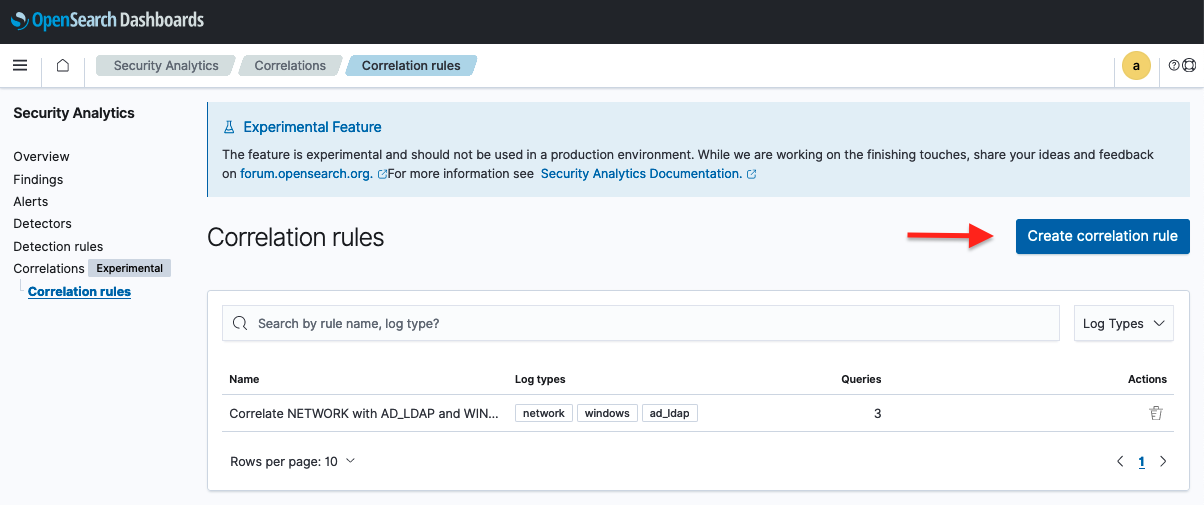
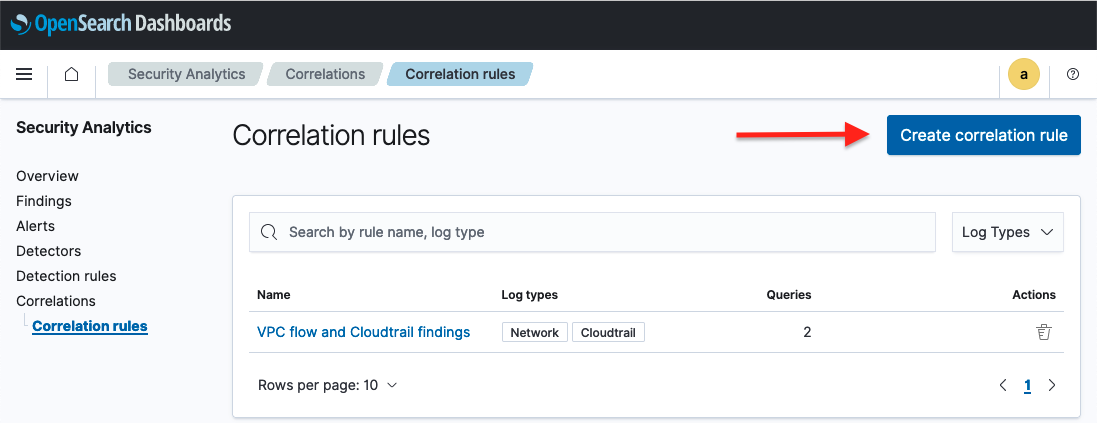
Fix correlation engine documentation by removing all instances of the experimental flag for 2.9 (#4635) (#4637)
* fix#4631 correlation rule updates

* fix#4631 correlation rule updates

* fix#4631 correlation rule updates

* fix#4631 correlation rule updates

* fix#4631 correlation rule updates

---------

(cherry picked from commit 169f71427cc885cda01e2d5007e1f9f7b593984c)

diff --git a/_security-analytics/usage/correlation-graph.md b/_security-analytics/usage/correlation-graph.md
@@ -7,23 +7,23 @@ nav_order: 45
 
 # Working with the correlation graph
 
-The correlation engine is an experimental feature released in OpenSearch 2.7. Therefore, we do not recommend using the feature in a production environment at this time. For updates on the progress of the correlation engine, see [Security Analytics Correlation Engine](https://github.com/opensearch-project/security-analytics/issues/369) on GitHub. To share ideas and provide feedback, join the [Security Analytics forum](https://forum.opensearch.org/c/plugins/security-analytics/73).
-{: .warning }
-
 The correlation graph is a security findings knowledge graph. It provides a visualization of information generated by the correlation engine and allows you to focus on specific correlations and inspect them in greater detail. Information on the graph includes findings by log type, the severity levels for the findings, the correlations drawn between findings, and the relevance of the correlations, among other details. You can also manipulate the graph to gain further insight into specific events of interest. This includes filtering findings by date and time, zooming in on the relationship between specific findings and their correlations, and filtering by log type and severity level. Use this section to learn more about using the graph. 
 
+---
 ## Acccessing the graph
 
 Begin by selecting **Security Analytics** in the OpenSearch Dashboards main menu. Then select **Correlations** from the Security Analytics menu on the left side of the screen. The **Correlations** page is displayed, as shown in the following image.
 
 <img src="{{site.url}}{{site.baseurl}}/images/Security/sec-analytics/corr-graph.png" alt="The correlation graph" width="85%">
 
+---
 ## Interpreting the graph
 
 The graph displays findings as nodes with colored borders expressing their severity level. A three-letter abbreviation inside the node indicates the log type. The lines that connect the findings represent the correlations between them. A heavy line indicates a strong correlation, while a light line shows a weaker connection.
 
 <img src="{{site.url}}{{site.baseurl}}/images/Security/sec-analytics/corr-graph-detail.png" alt="The correlation graph" width="40%">
 
+---
 ## Using the graph
 
 You can control which findings are displayed on the graph by filtering by severity level, log type, and time filter. The time filter controls the findings that appear on the graph by setting a date range in which they were generated.
@@ -36,7 +36,7 @@ You can focus on a particular area of the graph to look at correlations associat
 
 <img src="{{site.url}}{{site.baseurl}}/images/Security/sec-analytics/corr-drill-dn.png" alt="Zooming in on a specific finding on the graph" width="40%">
 
-After narrowing the focus of the graph, informational cards for each of the findings appear on the right-hand side of the screen. The selected finding appears at the top of the cards, and the correlated findings are listed below it in order of their correlation relevance, represented by a correlation score, as shown in the following image.
+After narrowing the focus of the graph, informational cards for each of the findings appear on the right-hand side of the screen. The selected finding appears at the top of the cards, and the correlated findings are listed underneath it in order of their correlation relevance, represented by a correlation score, as shown in the following image.
 
 <img src="{{site.url}}{{site.baseurl}}/images/Security/sec-analytics/corr-cards.png" alt="Zooming in on a specific finding on the graph" width="30%">
 

diff --git a/_security-analytics/security.md b/_security-analytics/security.md
@@ -9,12 +9,12 @@ has_children: false
 
 You can use OpenSearch Security with Security Analytics to assign user permissions and manage the actions that users can and cannot perform. For example, you might want one group of users to be able to create, update, or delete detectors and another group of users to only view detectors. You may want still another group to be able to receive and acknowledge alerts but to be prevented from performing other tasks. The OpenSearch Security framework allows you to control the level of access users have to Security Analytics functionality.
 
-
+---
 ## Security Analytics system indexes
 
 Security Analytics indexes are protected as system indexes and treated differently than other indexes in a cluster. System indexes store configurations and other system settings and, for that reason, cannot be modified using the REST API or the OpenSearch Dashboards interface. Only a user with a TLS [admin certificate]({{site.url}}{{site.baseurl}}/security/configuration/tls/#configuring-admin-certificates) can access system indexes. For more information about working with this type of index, see [System indexes]({{site.url}}{{site.baseurl}}/security/configuration/system-indices/).
 
-
+---
 ## Basic permissions
 
 As an administrator, you can use OpenSearch Dashboards or the Security REST API to assign specific permissions to users based on the specific APIs they need to access. For a list of supported APIs, see [API tools]({{site.url}}{{site.baseurl}}/security-analytics/api-tools/index/).
@@ -23,7 +23,7 @@ OpenSearch Security has three built-in roles that cover most Security Analytics 
 
 If these roles don't meet your needs, mix and match individual Security Analytics [permissions]({{site.url}}{{site.baseurl}}/security/access-control/permissions/#security-analytics-permissions) to suit your use case. Each action corresponds to an operation in the REST API. For example, the `cluster:admin/opensearch/securityanalytics/detector/delete` permission allows you to delete detectors.
 
-
+---
 ## (Advanced) Limit access by backend role
 
 You can use backend roles to configure fine-grained access to individual detectors based on roles. For example, backend roles can be assigned to users working in different departments of an organization so that they can view only those detectors owned by the departments in which they work.
@@ -90,7 +90,7 @@ PUT /_plugins/_security/api/rolesmapping/security_analytics_full_access
 
 However, because they have different backend roles, `alice` and `bob` cannot view each other's detectors or their results.
 
-
+---
 ## A note on using fine-grained access control with the plugin
 
 When a trigger generates an alert, the detector configurations, the alert itself, and any notifications that are sent to a channel may include metadata describing the index being queried. By design, the plugin must extract the data and store it as metadata outside of the index. [Document-level security]({{site.url}}{{site.baseurl}}/security/access-control/document-level-security) (DLS) and [field-level security]({{site.url}}{{site.baseurl}}/security/access-control/field-level-security) (FLS) access controls are designed to protect the data in the index. But once the data is stored outside the index as metadata, users with access to the detector and monitor configurations, alerts, and their notifications will be able to view this metadata and possibly infer the contents and quality of data in the index, which would otherwise be concealed by DLS and FLS access control.

diff --git a/_security-analytics/sec-analytics-config/detectors-config.md b/_security-analytics/sec-analytics-config/detectors-config.md
@@ -9,7 +9,7 @@ nav_order: 15
 
 Security Analytics provides the options and functionality to monitor and respond to a wide range of security threats. Detectors are the essential components that determine what to look for and how to respond to those threats. This section covers their creation and configuration. 
 
-
+---
 ## Step 1. Define a detector
 
 You can define a new detector by naming the detector, selecting a data source and detector type, and specifying a detector schedule. After defining a detector, you can also configure field mappings and set up alerts. Follow the steps in this section to accomplish all three of these setup tasks.
@@ -40,8 +40,8 @@ You can define a new detector by naming the detector, selecting a data source an
 
     To quickly select one or more known rules and dismiss others, first deselect all rules by turning off the **Rule name** toggle, then search for your target rule names and select each individually by turning its toggle on.
     {: .tip }
-
-
+    
+---
 ## Step 2. Create field mappings
 
 The field mapping step matches field names from the detector rule with field names from the log index being used to provide data. Creating field mappings allows the system to accurately pass event data from the log to the detector and then use the data to trigger alerts.
@@ -93,7 +93,7 @@ While mapping fields, consider the following:
 * Once the log source field name is selected and mapped to the detector field name, the icon in the **Status** column to the right changes from the alert icon to a check mark.
 * Make as many matches between field names as possible to complete an accurate mapping for the detector and log source fields.
 
-
+---
 ## Step 3. Create a detector schedule
 
 1. In the **Detector schedule** section, set how often the detector will run. Specify a unit of time and a corresponding number to set the interval. The following image shows that the detector runs every 3 minutes.
@@ -102,7 +102,7 @@ While mapping fields, consider the following:
     
 1. After specifying how often the detector will run, select **Next** in the lower-right corner of the screen. The **Set up alerts** page appears and displays settings for an alert trigger.
 
-
+---
 ## Step 4. Set up alerts
 
 The fourth step in creating a detector involves setting up alerts. Alerts are configured to create triggers that, when matched with a set of detection rule criteria, send notifications of possible security events. You can select rule names, rule severity, and tags in any combination to define a trigger. Once a trigger is defined, the alert setup lets you choose the channel on which to be notified and provides options for customizing a message for the notification.
@@ -139,7 +139,7 @@ To set up an alert for a detector, continue with the following steps:
 
 1. Review the specifications for the detector and select **Create detector** in the lower-right corner of the screen. The detector details for the new detector are displayed. When you navigate to the main **Threat detectors** page, the new detector appears in the list.
 
-
+---
 ## What's next
 
 If you are ready to view findings for the new detector, see the [Working with findings]({{site.url}}{{site.baseurl}}/security-analytics/usage/findings/) section. If you would like to import rules or set up custom rules before working with findings, see the [Working with rules]({{site.url}}{{site.baseurl}}/security-analytics/usage/rules/) section. 

diff --git a/_security-analytics/sec-analytics-config/correlation-config.md b/_security-analytics/sec-analytics-config/correlation-config.md
@@ -7,12 +7,9 @@ nav_order: 16
 
 # Creating correlation rules
 
-The correlation engine is an experimental feature released in OpenSearch 2.7. Therefore, we do not recommend using the feature in a production environment at this time. For updates on the progress of the correlation engine, see [Security Analytics Correlation Engine](https://github.com/opensearch-project/security-analytics/issues/369) on GitHub. To share ideas and provide feedback, join the [Security Analytics forum](https://forum.opensearch.org/c/plugins/security-analytics/73).
-{: .warning }
-
 Correlation rules allow you to define threat scenarios involving multiple systems in an infrastructure by matching the signatures of threat events occurring in different log types. Once a rule contains at least two different log sources and the preferred fields and field values that define an intended threat scenario, the correlation engine can query the indexes specified in the correlation rule and identify any correlations between the findings.
 
-
+---
 ## Configuring rules
 
 Having at least two data sources in the rule configuration is the basis for making connections between different systems in an infrastructure and identifying correlations. Therefore, a minimum of two queries is required for each correlation rule. However, you can include more than two queries to better define a threat scenario and look for correlations between multiple systems. Follow these steps to create a correlation rule:
@@ -39,9 +36,9 @@ Having at least two data sources in the rule configuration is the basis for maki
   
    <img src="{{site.url}}{{site.baseurl}}/images/Security/sec-analytics/corr-rule-config4.png" alt="A second query for the correlation rule" width="50%">
 
-1. Once the rule is complete, select **Create correlation rule** in the lower-right corner of the window. OpenSearch creates a new rule, the screen returns to the **Correlation rules** window, and the new rule appears in the table of correlation rules.
+1. Once the rule is complete, select **Create correlation rule** in the lower-right corner of the window. OpenSearch creates a new rule, the screen returns to the **Correlation rules** window, and the new rule appears in the table of correlation rules. To edit the rule, select the rule name in the **Name** column. The **Edit correlation rule** window opens.
 
-
+---
 ## Setting a time window
 
 The Cluster Settings API allows you to correlate findings within a set time window. For example, if your time window is three minutes, the system attempts to correlate findings defined in the threat scenario only when they occur within three minutes of one another. By default, the time window is five minutes. For more information about the Cluster Settings API, see [Cluster settings]({{site.url}}{{site.baseurl}}/api-reference/cluster-api/cluster-settings/).
@@ -60,7 +57,7 @@ PUT /_cluster/settings
 ```
 {% include copy-curl.html %}
 
-
+---
 ## Next steps
 
 After creating detectors and correlation rules, you can use the correlation graph to observe the correlations between findings from different log sources. For information about working with the correlation graph, see [Working with the correlation graph]({{site.url}}{{site.baseurl}}/security-analytics/usage/correlation-graph/). 

diff --git a/_security-analytics/index.md b/_security-analytics/index.md
@@ -20,7 +20,7 @@ As part of the OpenSearch Project, Security Analytics exists in the open source 
 
 If you would like to leave feedback that could help improve Security Analytics, join the discussion on the [OpenSearch forum](https://forum.opensearch.org/c/plugins/security-analytics/73).
 
-
+---
 ## Components and concepts
 
 Security Analytics includes a number of tools and features elemental to its operation. The major components that compose the plugin are summarized in the following sections.
@@ -47,6 +47,7 @@ Log types provide the data used to evaluate events occurring in a system. OpenSe
 * Microsoft 365 logs
 * Okta events
 * Microsoft Azure logs
+* VPC Flow logs
 
 Log types are specified during the creation of detectors, including steps for mapping log fields to the detector. Security Analytics also automatically selects an appropriate set of rules based on a specific log type and populates them for the detector.
 
@@ -70,16 +71,13 @@ For information about setting up alerts, see [Step 4. Set up alerts]({{site.url}
 
 ### Correlation engine
 
-The correlation engine is an experimental feature released in OpenSearch 2.7. Therefore, we do not recommend using the feature in a production environment at this time. For updates on the progress of the correlation engine, see [Security Analytics Correlation Engine](https://github.com/opensearch-project/security-analytics/issues/369) on GitHub. To share ideas and provide feedback, join the [Security Analytics forum](https://forum.opensearch.org/c/plugins/security-analytics/73).
-{: .warning }
-
 The correlation engine gives Security Analytics the ability to compare findings from different log types and draw correlations between them. This facilitates understanding of the relationships between findings from different systems in an infrastructure and increases confidence that an event is meaningful and requires attention.
 
 The correlation engine uses correlation rules to define threat scenarios involving different log types. It can then perform queries on logs to match relevant findings from those different log sources. To depict relationships between events occurring in different logs, a correlation graph provides a visual representation of findings, their connections, and the proximity of those connections. While the correlation rules define what threat scenarios to look for, the graph provides a visualization that helps you identify the relationships between different findings in a chain of security events.
 
 To learn more about defining threat scenarios for correlation rules, see [Creating correlation rules]({{site.url}}{{site.baseurl}}/security-analytics/sec-analytics-config/correlation-config/). To learn more about using the correlation graph, see [Working with the correlation graph]({{site.url}}{{site.baseurl}}/security-analytics/usage/correlation-graph/).
 
-
+---
 ## First steps
 
 To get started with Security Analytics, you need to define detectors, ingest log data, generate findings, define correlation rules, and configure alerts. See [Setting up Security Analytics]({{site.url}}{{site.baseurl}}/security-analytics/sec-analytics-config/index/) to begin configuring the platform to meet your objectives.

diff --git a/_security-analytics/usage/findings.md b/_security-analytics/usage/findings.md
@@ -13,6 +13,7 @@ The **Findings** window includes features for viewing and working with findings.
 
 You can choose **Refresh** at any time to refresh information on the **Findings** page.
 
+---
 ## The Findings graph
 
 The findings graph can display findings by log type or rule severity. Use the **Group by** dropdown list to specify either log type or rule severity.
@@ -39,6 +40,7 @@ When one of the commonly used windows of time is selected, you can choose **Show
 
 As one more alternative, you can select an option from the **Recently used date ranges** section to go back to a previous setting.
 
+---
 ## The Findings list
 
 The **Findings** list displays all findings according to the time of the finding, the finding ID, the rule name that generated the finding, the detector that captured the finding, and other details, as shown in the following image.
@@ -77,9 +79,6 @@ The **Discover** panel displays the document that generated the finding with a h
 For details about working with **Discover** in OpenSearch Dashboards, see [Exploring data]({{site.url}}{{site.baseurl}}/dashboards/discover/index-discover/).
 
 #### Viewing correlated findings
-
-Correlations between findings are generated by the correlation engine, which is an experimental feature released in OpenSearch 2.7. Therefore, we do not recommend using the feature in a production environment at this time. For updates on the progress of the correlation engine, see [Security Analytics Correlation Engine](https://github.com/opensearch-project/security-analytics/issues/369) on GitHub. To share ideas and provide feedback, join the [Security Analytics forum](https://forum.opensearch.org/c/plugins/security-analytics/73).
-{: .warning }
 
 To see how the finding is correlated with other findings, select the **Correlations** tab. Correlations are relationships between findings that express a particular threat scenario involving multiple log types. Information in the **Correlated findings** table shows the time at which a correlated finding was generated, a finding's ID, the log type used to generate the finding, its threat severity, and the correlation score---a measure of its proximity to the reference finding---as shown in the following image.
 

diff --git a/_security-analytics/usage/overview.md b/_security-analytics/usage/overview.md
@@ -16,6 +16,7 @@ When you select **Security Analytics** from the top menu, the Overview page is d
 
 Each section provides a summary description for each element of Security Analytics, along with controls that let you take action for each item.
 
+---
 ## Overview and getting started
 
 The upper portion of the Overview page contains two control buttons for refreshing information and getting started with Security Analytics. You can select the **Refresh** button to refresh all of the information on the page. 
@@ -29,24 +30,29 @@ You can also select the **Getting started** link to expand the Get started with 
 * In step 3, select **View alerts** to go to the Security alerts page. For details about this page, see [Working with alerts]({{site.url}}{{site.baseurl}}/security-analytics/usage/alerts/).
 * In step 4, select **Manage rules** to go to the Rules page. For more on rules, see [Working with rules]({{site.url}}{{site.baseurl}}/security-analytics/usage/rules/).
 
+---
 ## Findings and alert count
 
 The Findings and alert count section provides a graph showing data on the latest findings. Use the **Group by** dropdown list to select either **All findings** or **Log type**.
 
+---
 ## Recent alerts
 
 The Recent alerts table displays recent alerts by time, trigger name, and alert severity. Select **View alerts** to go to the Alerts page.
 
+---
 ## Recent findings
 
 The Recent findings table displays recent findings by time, rule name, rule severity, and detector. Select **View all findings** to go to the Findings page.
 
+---
 ## Most frequent detection rules
 
 This section provides a graphical representation of detection rules that trigger findings most often and how they compare to others as a percentage of the whole. The rule names represented by the graph are listed to the right.
 
 <img src="{{site.url}}{{site.baseurl}}/images/Security/rule_graph.png" alt="The detection rule graph on the Overview page" width="50%">
 
+---
 ## Detectors
 
 The Detectors section displays a list of available detectors by detector name, status (active/inactive), and log type. Select **View all detectors** to go to the Detectors page. Select **Create detector** to go directly to the Define detector page.

diff --git a/_security-analytics/usage/rules.md b/_security-analytics/usage/rules.md
@@ -11,6 +11,7 @@ The **Detection rules** window lists all security rules used for detection creat
 
 <img src="{{site.url}}{{site.baseurl}}/images/Security/Rules.png" alt="The Rules page" width="90%">
 
+---
 ## Viewing and filtering rules
 
 When you open the **Detection rules** page, all rules are listed in the table. Use the search bar to search for specific rules by entering a full or partial name and pressing **Return/Enter** on your keyboard. The list is filtered and displays matching results.
@@ -32,10 +33,10 @@ In Visual view, rule details are arranged in fields, and the links are active. S
 * Rule details are formatted as a YAML file according to the Sigma rule specification.
 * To copy the rule, select the copy icon in the upper-right corner of the rule. To quickly create a new, customized rule, you can paste the rule into the YAML editor and make any modifications before saving it. See [Customizing rules](#customizing-rules) for more information.
 
+---
 ## Creating rules
 
 There are multiple ways to create rules on the **Detection rules** page. These methods include manually creating a custom rule, importing a rule, and duplicating an existing rule to customize it. The following sections discuss these methods in detail.  
-
 
 ### Custom rules
 
@@ -162,7 +163,6 @@ status: experimental
 {% include copy.html %}
 
 To assist in rule creation using the **YAML Editor**, you can refer to Sigma's [Rule Creation Guide](https://github.com/SigmaHQ/sigma/wiki/Rule-Creation-Guide) and use the descriptions of each field to learn more about defining the rule.
-
 
 ### Importing rules
 

diff --git a/_security-analytics/api-tools/correlation-eng.md b/_security-analytics/api-tools/correlation-eng.md
@@ -10,7 +10,7 @@ nav_order: 55
 
 Correlation engine APIs allow you to create new correlation rules, view findings and correlations within a certain time window, and perform other tasks.
 
-
+---
 ## Create correlation rules between log types
 
 This API is used to create correlation rules:
@@ -98,7 +98,7 @@ POST /_plugins/_security_analytics/correlation/rules
 | :--- | :--- |:--- |
 | `_id` | String | The Id for the new rule. |
 
-
+---
 ## List all findings and their correlations within a time window
 
 This API provides a list of all findings and their correlations within a specified time window:
@@ -149,7 +149,7 @@ GET /_plugins/_security_analytics/correlations?start_timestamp=1689289210000&end
 | `logType2` | String | The log type associated with the second finding. |
 | `rules` | Array | A list of correlation rule IDs associated with the correlated findings. |
 
-
+---
 ## List correlations for a finding belonging to a log type
 
 This API is used to list correlations for specific findings and the log types associated with them:

diff --git a/_security-analytics/usage/detectors.md b/_security-analytics/usage/detectors.md
@@ -11,6 +11,7 @@ After creating a detector, it appears on the Threat detectors page along with ot
 
 <img src="{{site.url}}{{site.baseurl}}/images/Security/threat-detector.png" alt="Threat detector page" width="60%">
 
+---
 ## Threat detector list
 
 The list of threat detectors includes the search bar, the **Status** dropdown list, and the **Log type** dropdown list.
@@ -34,6 +35,7 @@ To edit a detector, begin by selecting the link to the detector in the Detector 
 After you select the **Alert triggers** tab, you also have the option to add additional alerts for the detector by selecting **Add another alert condition** at the bottom of the page.
 {: .tip }
 
+---
 ## Detector actions
 
 Threat detector actions allow you to stop and start detectors or delete a detector. To enable actions, first select the checkbox beside one or more detectors in the list.

diff --git a/_security-analytics/usage/alerts.md b/_security-analytics/usage/alerts.md
@@ -13,6 +13,7 @@ The Alerts window includes features for viewing and working with alerts. The two
 
 You can select the **Refresh** button at any time to refresh information on the Alerts page.
 
+---
 ## The Alerts graph
 
 The Alerts graph can display alerts by their status or severity. Use the **Group by** dropdown list to specify either Alert status or Alert severity.
@@ -38,6 +39,7 @@ When one of the commonly used windows of time is selected, you can select the **
 
 As one more alternative, you can select an option from the **Recently used date ranges** section to go back to a previous setting.
 
+---
 ## The Alerts list
 
 The Alerts list displays all findings according to the time when the alert was triggered, the alert's trigger name, the detector that triggered the alert, the alert status, and alert severity.

diff --git a/_security-analytics/api-tools/rule-api.md b/_security-analytics/api-tools/rule-api.md
@@ -9,6 +9,7 @@ nav_order: 40
 
 The following APIs can be used for a number of tasks related to rules, from searching for pre-packaged rules to creating and updating custom rules.
 
+---
 ## Create Custom Rule
 
 The Create Custom Rule API uses Sigma security rule formatting to create a custom rule. For information about how to write a rule in Sigma format, see information provided at [Sigma's GitHub repository](https://github.com/SigmaHQ/sigma).
